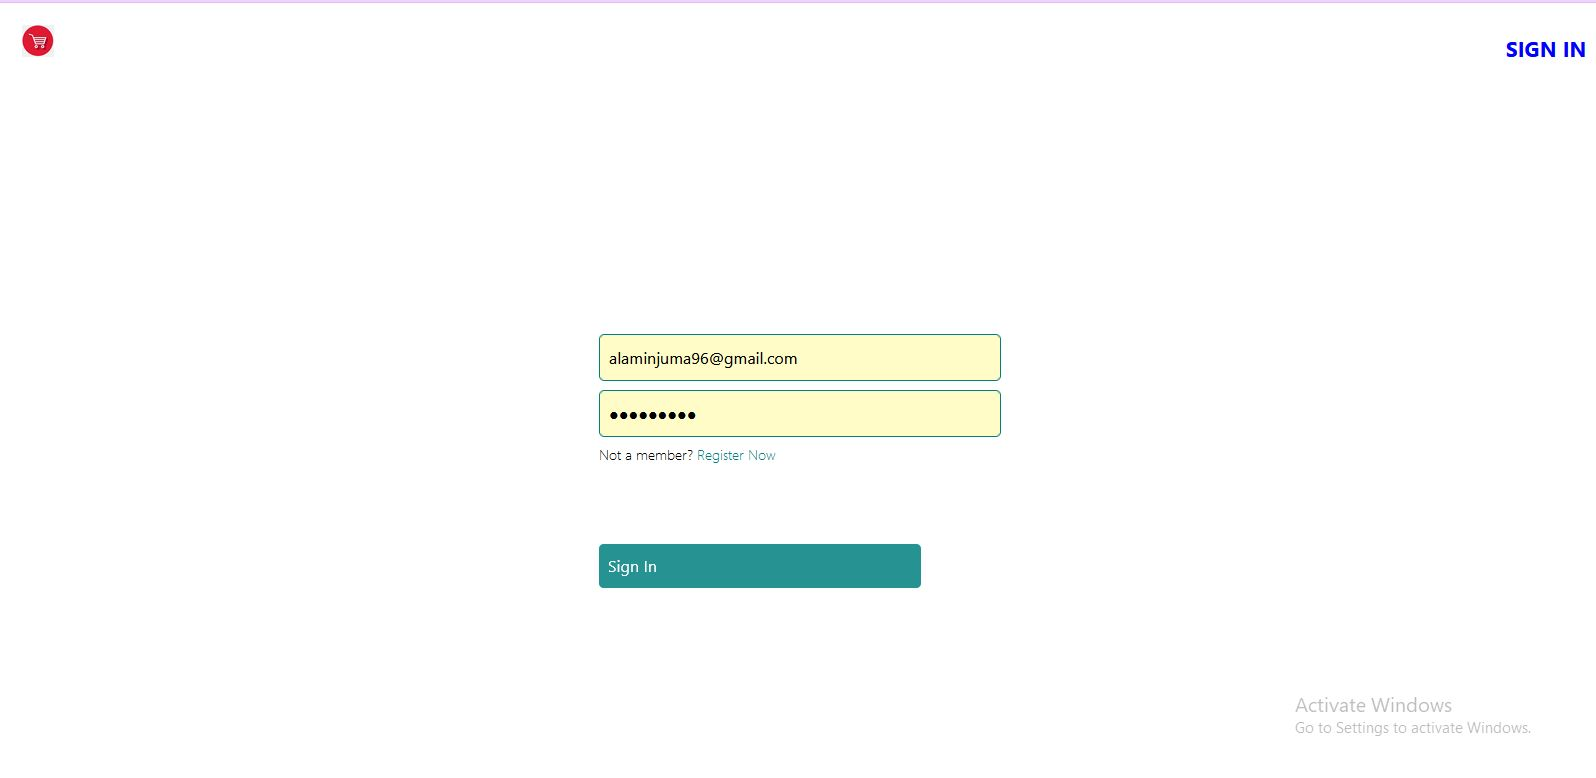
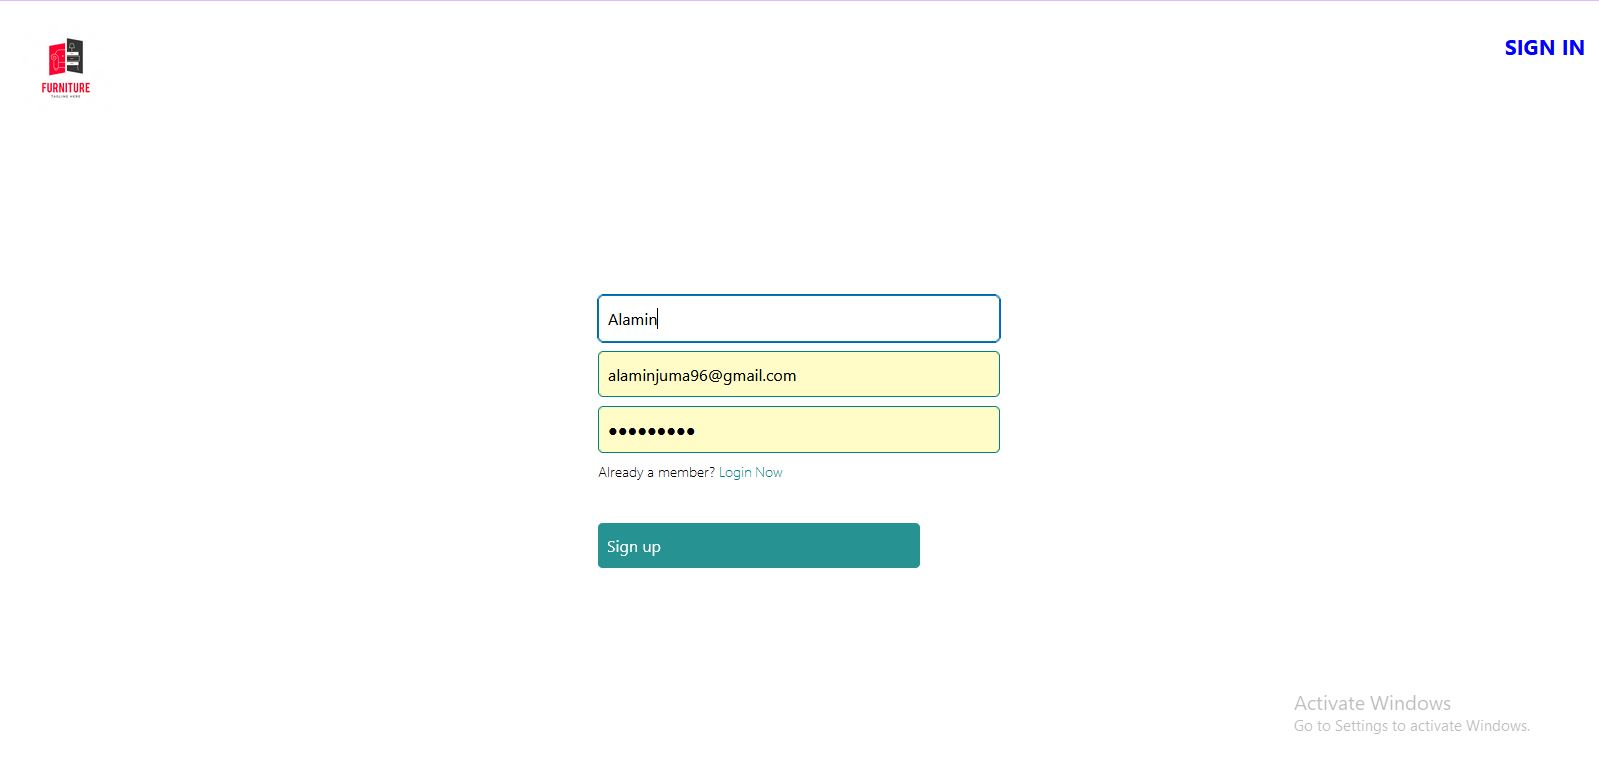
:100: images

diff --git a/e-commerce-app/src/components/products/addProdsForm/AddProductsForm.css b/e-commerce-app/src/components/products/addProdsForm/AddProductsForm.css
@@ -2,6 +2,8 @@
     color: #555;
     max-width: 450px;
     margin: 60px auto;
+    display: flex;
+    flex-direction: column;
   }
   .create label span {
     display: block;
@@ -11,19 +13,7 @@
     margin-top: 10px;
     font-size: 0.8em;
   }
-  .create button {
-    display: block;
-    width: 100px;
-    font-size: 1em;
-    color: #fff;
-    padding: 8px 20px;
-    border: 0;
-    border-radius: 4px;
-    background-color: #58249c;
-    cursor: pointer;
-    text-decoration: none;
-    margin: 20px auto;
-  }
+  
   .ingredients {
     display: flex;
     align-items: center;
@@ -48,3 +38,6 @@
     margin: 15px;
     padding: 3px;
   }
+  .btn {
+    margin-top: 300px;
+  } 

diff --git a/e-commerce-app/src/components/cart/cart-dropdown/Cart-dropdown.jsx b/e-commerce-app/src/components/cart/cart-dropdown/Cart-dropdown.jsx
@@ -16,7 +16,6 @@ import {
   onIncrementProduct,
   onDecrementProduct,
   onRemoveCartItem,
-  totalQuantity,
   cartTotalPriceSelector,
   onClearCart,
 } from "../../../features/cart/cartSlice";
@@ -98,7 +97,7 @@ export const CartDropdown = () => {
                           />
                         </span>
                       </p>
-                      <span className="delete">
+                      <span className="remove-item">
                       <AiOutlineDelete
                         onClick={() => dispatch(onRemoveCartItem(item.id))}
                       />

diff --git a/e-commerce-app/src/features/cart/cartSlice.js b/e-commerce-app/src/features/cart/cartSlice.js
@@ -46,11 +46,6 @@ export const cartSlice = createSlice({
         (cartProducts) => cartProducts.id !== existingCartItem.id
       );
     },
-    totalQuantity: (state, action) => {
-      return state
-        .reduce((acc, item) => acc + item.quantity * item.price, 0)
-        .toFixed(2);
-    },
     onClearCart: (state) => {
       return (state = []);
     },
@@ -59,7 +54,6 @@ export const cartSlice = createSlice({
 
 export const {
   onAddItemsToCart,
-  totalQuantity,
   onIncrementProduct,
   onDecrementProduct,
   onRemoveCartItem,

diff --git a/e-commerce-app/src/routes/navigation/NavBar.jsx b/e-commerce-app/src/routes/navigation/NavBar.jsx
@@ -7,7 +7,7 @@ import { toggle } from "../../features/cart/toggleSlice";
 
 import { signOutUser } from "../../utils/firebase.utils";
 
-import ecommerceLogo from "../../assets/download.png";
+import ecommerceLogo from "../../assets/download.webp";
 import { AiOutlineShopping } from "react-icons/ai";
 
 import "./Nav.styles.css";

diff --git a/e-commerce-app/src/components/cart/cart-dropdown/Cart-dropdown.css b/e-commerce-app/src/components/cart/cart-dropdown/Cart-dropdown.css
@@ -759,7 +759,7 @@ span.text-red {
     width: 300px;
     margin: auto;
   }
-  .delete{
+  .delete:hover{
     cursor: pointer;
   }
 }

diff --git a/e-commerce-app/src/routes/navigation/Nav.styles.css b/e-commerce-app/src/routes/navigation/Nav.styles.css
@@ -11,8 +11,8 @@
 }
 
 .logo {
-    width :35px;
-    height: 35px;
+    width :100px;
+    height: 100px;
 }
 
 .nav-links-container {
